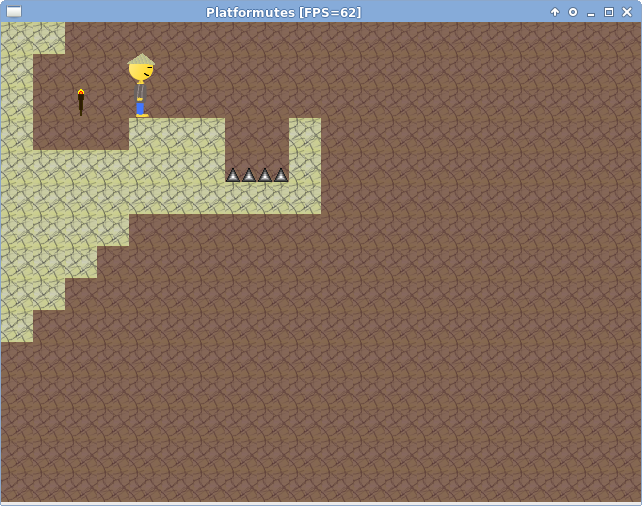
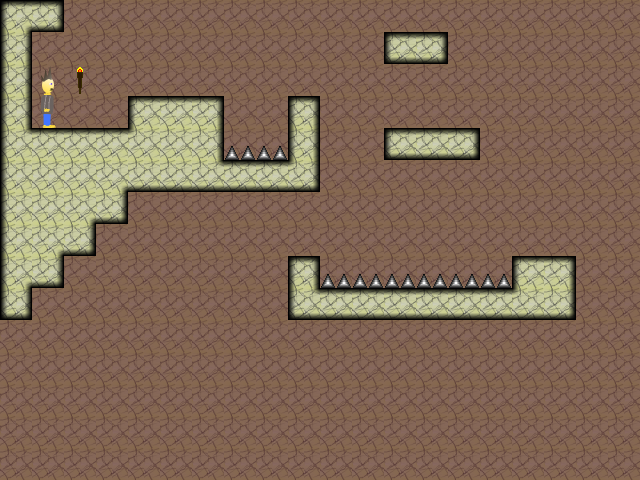
Add shading; new character; better collisions

diff --git a/src/main.cpp b/src/main.cpp
@@ -6,6 +6,9 @@
 #include "Tileset.h"
 #include "ResourceMgr.h"
 
+#define BW BLOCK_WIDTH
+#define BH BLOCK_HEIGHT
+
 int main(int argc, char ** argv)
 {
 	if (argc > 1)
@@ -34,52 +37,70 @@ int main(int argc, char ** argv)
 			}
 		}
 		// draw tiles
-		for (int x = 0; x < d.getWidth()/BLOCK_WIDTH+1; x++)
+		for (int x = 0; x < d.getWidth()/BW+1; x++)
 		{
-			for (int y = 0; y < d.getHeight()/BLOCK_HEIGHT+1; y++)
+			for (int y = 0; y < d.getHeight()/BH+1; y++)
 			{
-				if (!lvl.get(x,y).isAir())
-					d.drawImage(lvl.get(x,y).getImage(), x*BLOCK_WIDTH, y*BLOCK_HEIGHT);
+				if (lvl.get(x,y).isAir()) continue;
+				d.drawImage(lvl.get(x,y).getImage(), x*BW, y*BH);
+				if (!lvl.get(x,y).isSolid()) continue;
+				bool t, b, l, r, tr, br, bl, tl;
+				t = !lvl.get(x,y-1).isSolid();
+				b = !lvl.get(x,y+1).isSolid();
+				l = !lvl.get(x-1,y).isSolid();
+				r = !lvl.get(x+1,y).isSolid();
+				tr = !lvl.get(x+1,y-1).isSolid();
+				br = !lvl.get(x+1,y+1).isSolid();
+				bl = !lvl.get(x-1,y+1).isSolid();
+				tl = !lvl.get(x-1,y-1).isSolid();
+				if (t)
+					d.drawImage(getResourceMgr().getImage("shading/t"),x*BW,y*BH);
+				if (b)
+					d.drawImage(getResourceMgr().getImage("shading/b"),x*BW,y*BH);
+				if (l)
+					d.drawImage(getResourceMgr().getImage("shading/l"),x*BW,y*BH);
+				if (r)
+					d.drawImage(getResourceMgr().getImage("shading/r"),x*BW,y*BH);
+				if (tr && !(t || r))
+					d.drawImage(getResourceMgr().getImage("shading/tr"),x*BW,y*BH);
+				if (br && !(b || r))
+					d.drawImage(getResourceMgr().getImage("shading/br"),x*BW,y*BH);
+				if (bl && !(b || l))
+					d.drawImage(getResourceMgr().getImage("shading/bl"),x*BW,y*BH);
+				if (tl && !(t || l))
+					d.drawImage(getResourceMgr().getImage("shading/tl"),x*BW,y*BH);
 			}
 		}
 		// draw sprites and character
-		// TODO real sprite handling
+		// TODO better collisions
 		if (cyv < 2)
 			cyv += 1;
 		ncx = cx+cxv; ncy = cy+cyv;
-		if (cyv < 0)
-		{
-			if (!(
-			lvl.get(cx/BLOCK_WIDTH,ncy/BLOCK_HEIGHT).isSolid() ||
-			lvl.get(cx/BLOCK_WIDTH+1,ncy/BLOCK_HEIGHT).isSolid()
+		if (cyv < 0 && !(
+			lvl.get(cx/BW,ncy/BH).isSolid() ||
+			lvl.get(cx/BW+1,ncy/BH).isSolid()
 			))
-				cy = ncy;
-			else
-				cyv += 1;
-		}
-		if (cyv > 0)
-		{
-			if (!(
-			lvl.get(cx/BLOCK_WIDTH,(ncy-1)/BLOCK_HEIGHT+2).isSolid() ||
-			lvl.get(cx/BLOCK_WIDTH+1,(ncy-1)/BLOCK_HEIGHT+2).isSolid()
+			cy = ncy;
+		if (cyv > 0 && !(
+			lvl.get(cx/BW,(ncy-1+BH*2)/BH).isSolid() ||
+			lvl.get((cx-1)/BW+1,(ncy-1+BH*2)/BH).isSolid()
 			))
-				cy = ncy;
-			else
-				cyv -= 1;
-		}
+			cy = ncy;
 		if (cxv < 0 && !(
-			lvl.get(ncx/BLOCK_WIDTH, (cy-1)/BLOCK_HEIGHT+1).isSolid() ||
-			lvl.get(ncx/BLOCK_WIDTH, (cy-1)/BLOCK_HEIGHT+2).isSolid()
+			lvl.get(ncx/BW, cy/BH).isSolid() ||
+			lvl.get(ncx/BW, (cy-1+BH)/BH).isSolid() ||
+			lvl.get(ncx/BW, (cy-1+BH*2)/BH).isSolid()
 			))
 			cx = ncx;
 		if (cxv > 0 && !(
-			lvl.get((ncx-1)/BLOCK_WIDTH+1, (cy-1)/BLOCK_HEIGHT+1).isSolid() ||
-			lvl.get((ncx-1)/BLOCK_WIDTH+1, (cy-1)/BLOCK_HEIGHT+2).isSolid()
+			lvl.get((ncx-1)/BW+1, cy/BH).isSolid() ||
+			lvl.get((ncx-1)/BW+1, (cy-1+BH)/BH).isSolid() ||
+			lvl.get((ncx-1)/BW+1, (cy-1+BH*2)/BH).isSolid()
 			))
 			cx = ncx;
 		if (
-			lvl.get(cx/BLOCK_WIDTH, (cy-1)/BLOCK_HEIGHT+2).getHurt() ||
-			lvl.get(cx/BLOCK_WIDTH+1, (cy-1)/BLOCK_HEIGHT+2).getHurt()
+			lvl.get(cx/BW, (cy-1+BH*2)/BH).getHurt() ||
+			lvl.get(cx/BW+1, (cy-1+BH*2)/BH).getHurt()
 			)
 		{ cx = 32; cy = 64; }
 		d.drawImage(c, cx, cy);
@@ -102,9 +123,6 @@ int main(int argc, char ** argv)
 						case SDLK_UP:
 							cyv = -10;
 							break;
-						case SDLK_DOWN:
-							cyv = 2;
-							break;
 						case SDLK_p:
 							std::cout << cx << ',' << cy << std::endl;
 							break;
@@ -116,12 +134,10 @@ int main(int argc, char ** argv)
 					switch (e.key.keysym.sym)
 					{
 						case SDLK_LEFT:
-						case SDLK_RIGHT:
-							cxv = 0;
+							if (cxv < 0) cxv = 0;
 							break;
-						case SDLK_UP:
-						case SDLK_DOWN:
-							cyv = 0;
+						case SDLK_RIGHT:
+							if (cxv > 0) cxv = 0;
 							break;
 						default:
 							break;

diff --git a/src/Level.h b/src/Level.h
@@ -15,6 +15,8 @@ class Level
 		Level(std::string filename);
 		Tile &get(int x, int y);
 		Image *getBackground();
+		int getWidth();
+		int getHeight();
 	protected:
 		std::string tileset;
 		std::string background;

diff --git a/src/Level.cpp b/src/Level.cpp
@@ -87,3 +87,6 @@ Image *Level::getBackground()
 	return getResourceMgr().getImage("backgrounds/"+background);
 }
 
+int Level::getWidth() { return width; }
+int Level::getHeight() { return height; }
+
